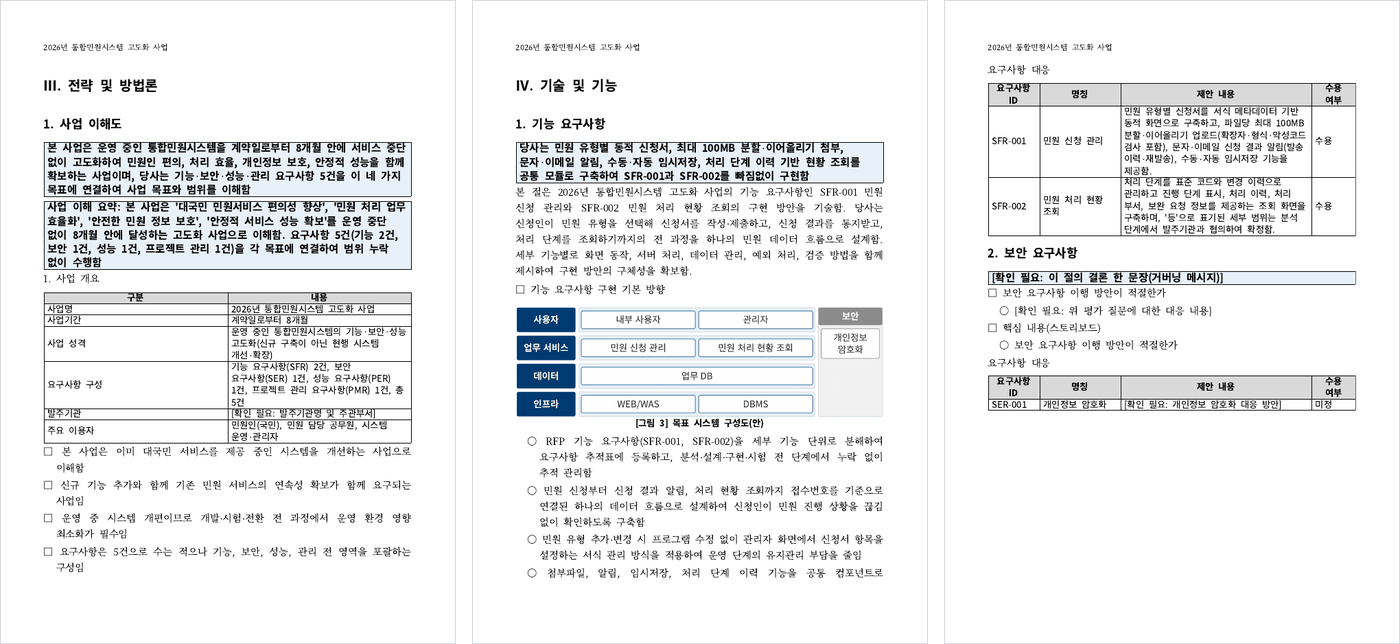
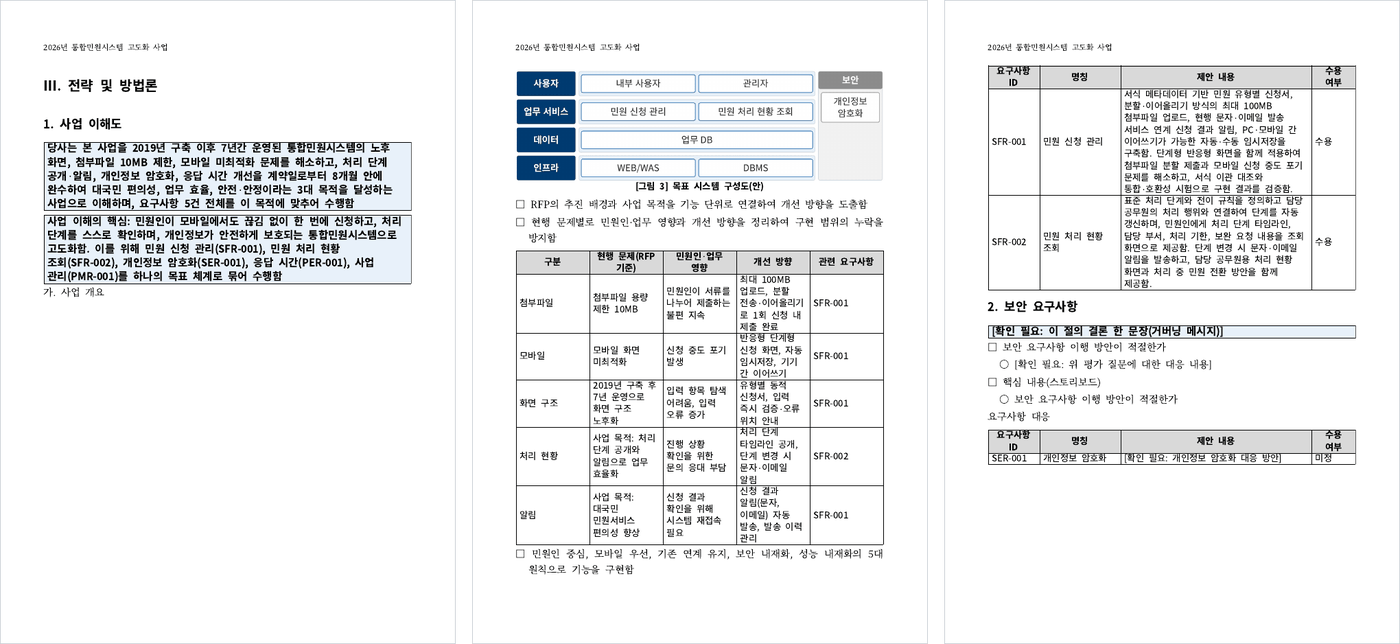
README 이미지를 맥락·분량 보강 뒤 초안으로 갱신, LLM 재실측 기록
- 가상 RFP(사업 개요 장 추가)로 두 절을 다시 써서 이미지를 만들었다. 본문 셋째 쪽은 요구사항
  대응표가 있는 쪽을 고른다(제목만 쪽 끝에 걸리면 다음 쪽).
- docs/analysis/llm-live-measurement.md 5절: 사업 이해도 [확인 필요] 23→7곳, 기능 요구사항
  6,861→10,485자(보강 호출 178초, 출력 24.3K 토큰), FACT-002 오탐 해소

Claude-Session: https://claude.ai/code/session_013LcdrLT2M8XLzR2Pnpr7bE

Changed region(s): [[0.3686, 0.0932, 0.645, 0.9006], [0.7064, 0.0932, 0.9829, 0.7453], [0.0307, 0.2174, 0.3071, 0.9006]]

diff --git a/scripts/readme_images.py b/scripts/readme_images.py
@@ -177,6 +177,13 @@ def find_page(pdf: Path, needle: str, *, with_image: bool = False) -> int:
     return 1
 
 
+def page_text(pdf: Path, page: int) -> str:
+    import pdfplumber
+
+    with pdfplumber.open(pdf) as doc:
+        return doc.pages[page - 1].extract_text() or "" if page <= len(doc.pages) else ""
+
+
 def autocrop(path: Path, pad: int = 24) -> None:
     im = Image.open(path).convert("RGB")
     bbox = ImageChops.difference(im, Image.new("RGB", im.size, "white")).getbbox()
@@ -259,8 +266,10 @@ def main() -> None:
     sub = p / "submission"
     shots_dir = Path(tempfile.mkdtemp(prefix="rfpgen-shots-"))
     main_pdf = sub / "01_정성제안서.pdf"
-    pages = [find_page(main_pdf, "사업 이해도"), find_page(main_pdf, "목표 시스템 구성도", with_image=True),
-             find_page(main_pdf, "요구사항 대응")]
+    responses = find_page(main_pdf, "요구사항 대응")
+    if "수용" not in page_text(main_pdf, responses):                # 제목만 쪽 끝에 걸리면 표가 있는 다음 쪽
+        responses += 1
+    pages = [find_page(main_pdf, "사업 이해도"), find_page(main_pdf, "목표 시스템 구성도", with_image=True), responses]
     shots = [pdf_page_png(main_pdf, n, shots_dir / f"proposal-{i}") for i, n in enumerate(pages)]
     for s in shots:
         frame(s)

diff --git a/docs/analysis/llm-live-measurement.md b/docs/analysis/llm-live-measurement.md
@@ -70,3 +70,23 @@ LLM 보조 추출(설계서 7.3절 B)과 LLM 초안(7.5~7.6절)을 실제 Claude
   3. 서로 독립인 호출(분석 과제 3종, 절 초안)을 동시에 보내 시간 단축
   4. `--llm-share-kb` 모드 실측: KB 토큰(`{{fact:…}}`)을 써서 `[확인 필요]`가 얼마나 줄어드는지
   5. 공개 RFP 라벨 30건 벤치마크(M1 완료 기준)
+
+## 5. 개요 절 맥락·분량 보강 뒤 다시 잰 것(2026-11-18, 체험용 가상 RFP)
+
+README 이미지를 만들며 가상 RFP(요구사항 5건, 본문 100쪽 상한)의 두 절을 Claude로 쓴 결과에서 두 문제를 찾았다.
+
+1. 사업 이해도처럼 연결 요구사항이 없는 절은 RFP 요약에 요구사항 건수만 받아, RFP에 있는 요구사항 ID·이름까지 `[확인 필요]`로 남겼다.
+2. 목표 글자 수를 줘도 절 분량이 목표 최소의 65%에 그쳤다.
+
+RFP 요약에 발주기관·예산·요구사항 목록을, 그 뒤에 사업 개요·배경·현황 발췌(`<rfp_overview>`)를 붙이고, 짧은 절은 1차 초안을 주고 한 번 더 쓰게 했다(`expand_below` 0.8).
+
+| 절(목표 글자 수) | 고치기 전 | 맥락 보강 뒤 | 분량 보강 뒤 |
+|---|---|---|---|
+| Ⅲ.1 사업 이해도(7,384~11,076) | 4,780자, `[확인 필요]` 23곳 | 6,628자, 7곳 | 보강 대상 아님(목표 최소의 90%) |
+| Ⅳ.1 기능 요구사항(10,792~16,188) | 6,861자, 9곳 | 7,056자, 5곳 | 10,485자, 11곳 |
+
+- **남은 `[확인 필요]`:** 사업 이해도의 7곳은 RFP·KB에 실제로 없는 정보다(응답 시간 목표치, 고도화 후 첨부 용량 목표, 당사 유사 실적 등). 고치기 전에는 'SFR 2건의 요구사항 ID 및 상세 내용', '발주기관명' 같은 RFP 정보가 섞여 있었다.
+- **분량 보강의 부작용:** 기능 요구사항을 더 구체적으로 쓰면서 확인할 항목도 늘었다(100MB가 파일당인지 건당인지, 문자 발송 규격·한도, 임시저장 보관기간 등). 지어낸 수치 대신 질의 거리로 남은 것이라 질의서 초안에 쓸 수 있다.
+- **근거 없는 수치(FACT-002):** 사업명의 '2026년', '요구사항 5건', 부문 배점 '25점', 일정표의 '3~6개월'을 잘못 잡던 오탐이 없어졌다. 남은 것은 제안사가 정한 개수('3대 목표', '5대 기능', '1회')뿐이다.
+- **호출:** 절 초안 120~170초, 출력 13.8~19.6K 토큰(사고 포함). 보강 호출은 178초, 입력 12.8K·출력 24.3K 토큰으로 절 초안 한 번과 비슷한 비용이 더 든다.
+- **맥락 크기:** 가상 RFP는 접두부가 581자에서 1,188자로 늘었다. 공개 RFP 404쪽은 개요 발췌가 7.7천 자, 요구사항 목록이 6천 자 안팎이어서 절마다 수천 토큰이 더 붙지만 캐시 읽기로 처리된다.
